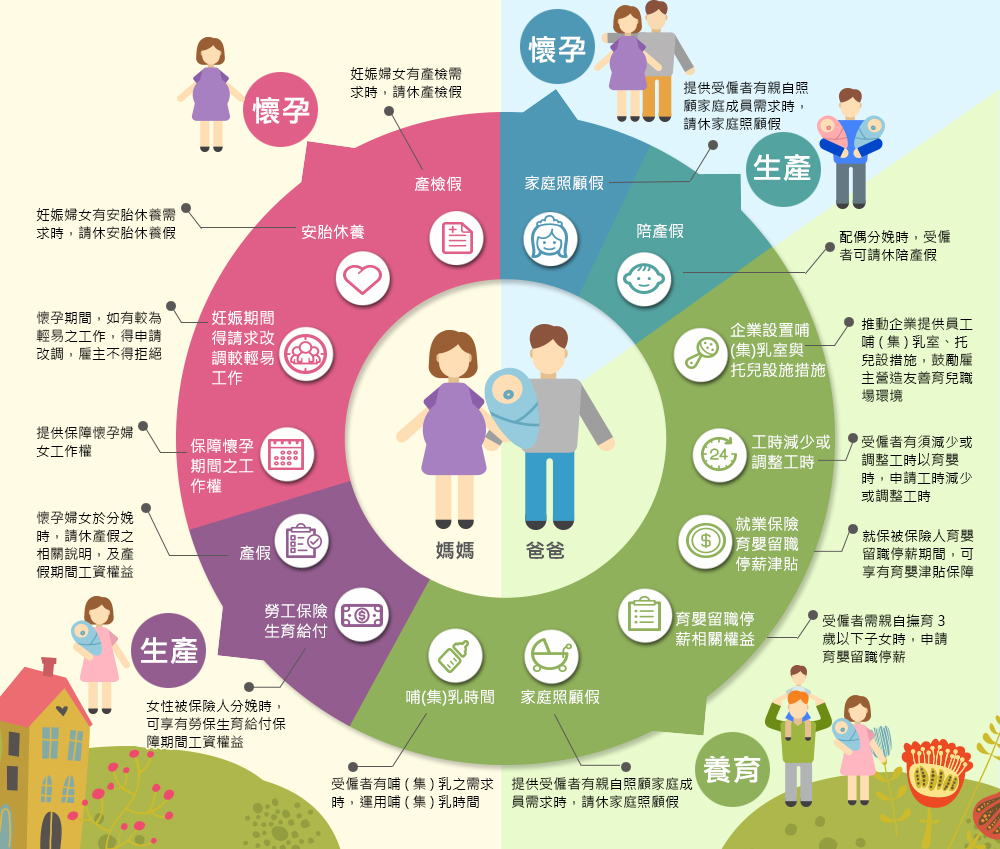
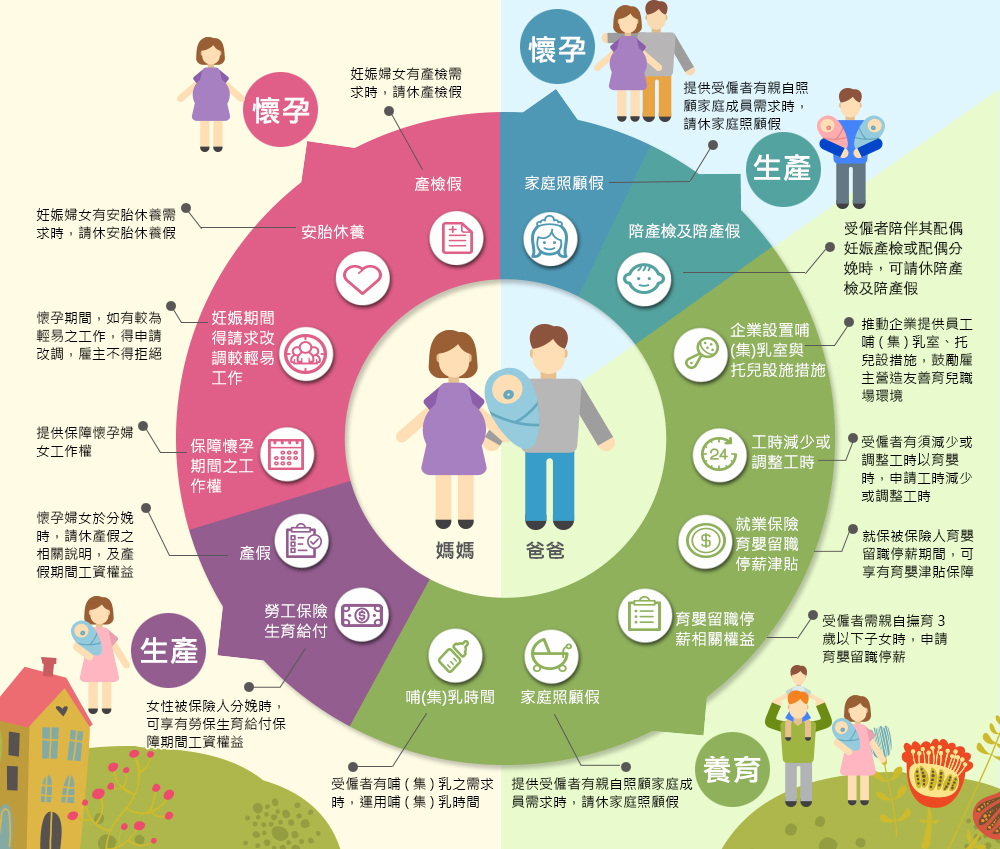
20220118修改改生育福利站圖片

Changed region(s): [[0.837, 0.245, 0.961, 0.3675], [0.62, 0.245, 0.744, 0.3062]]

diff --git a/sass/page/_cp.scss b/sass/page/_cp.scss
@@ -40,11 +40,7 @@ h1.title, h2.title {
     table {
         background: #FFF;
         margin-bottom: 1em;
-        // tr{
-        //   &:nth-child(even){
-        //     background-color:lighten($primaryColor, 65);
-        //   }
-        // }
+        
         &.noborder {
             border: none;
             th, td {
